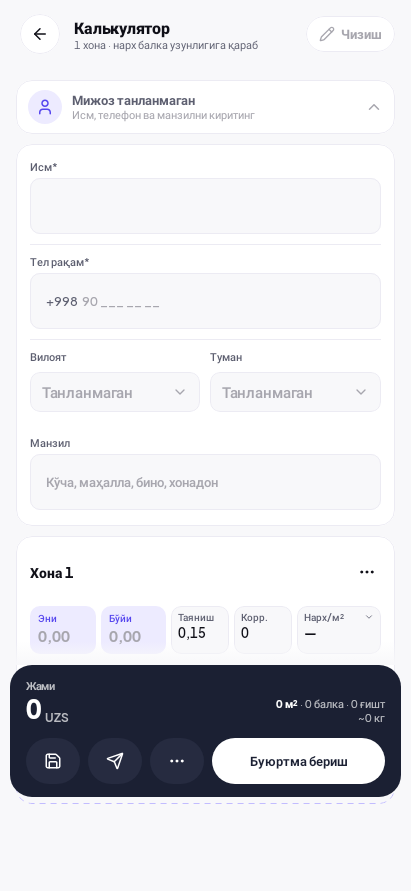
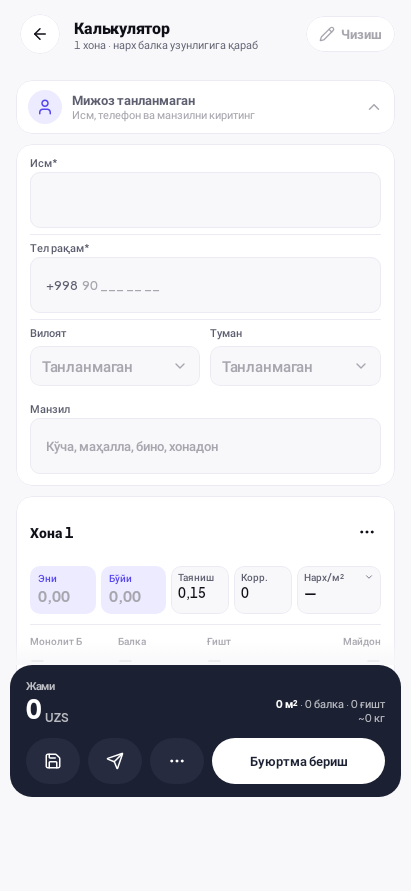
Feat(calculator) · client card collapsed by default; a compact client form
The card starts closed on every new quote and opens only from its chevron;
it still closes itself the moment a phone and a name are both on file, and
no longer re-opens on its own when one is blanked (owner ruling 2026-09-14).

FormField gains compact (6 dp above and below, 2 dp under the label; the
slot keeps its 48 dp, so stacked targets stay 12 dp apart), used only by
the client form — labels stay above the fields per the usability research
the owner asked for; the other 46 call sites do not move.

diff --git a/android/feature/calculator/src/test/kotlin/uz/etalon/crm/feature/calculator/ClientRowStateTest.kt b/android/feature/calculator/src/test/kotlin/uz/etalon/crm/feature/calculator/ClientRowStateTest.kt
@@ -154,9 +154,14 @@ class ClientRowStateTest {
 
     // ── the client form opening and closing: an edge, not a level ───────────────
 
-    @Test fun `a blank quote opens on the form, and a complete client closes it`() = runTest {
+    /** Collapsed by default (owner ruling 2026-09-14): a blank quote shows the one-line row, the
+     *  chevron opens the form, and a complete client closes it again. */
+    @Test fun `a blank quote starts on the closed row, the chevron opens it, a complete client closes it`() = runTest {
         val v = vm { emptyPage() }
-        assertTrue(v.state.value.clientFormOpen, "there is nothing to show on one line yet")
+        assertFalse(v.state.value.clientFormOpen, "collapsed until the operator asks for it")
+
+        v.toggleClientForm()
+        assertTrue(v.state.value.clientFormOpen)
 
         v.setClientName("Навоий Build")
         v.setClientPhoneDigits("901112233")
@@ -165,9 +170,9 @@ class ClientRowStateTest {
         assertFalse(v.state.value.clientFormOpen, "a phone and a name fit on the one-line row")
     }
 
-    /** The other half of the same rule: a quote whose phone or name has been emptied has nothing
-     *  to show on one line, so the form comes back. */
-    @Test fun `blanking the name reopens the form`() = runTest {
+    /** No falling edge: blanking the name after the form closed leaves the row closed — the
+     *  operator opens it by hand when they mean to correct it. */
+    @Test fun `blanking the name does not reopen the form by itself`() = runTest {
         val v = vm { hitPage() }
         v.setClientPhoneDigits("901112233")
         advanceUntilIdle()
@@ -175,7 +180,7 @@ class ClientRowStateTest {
 
         v.setClientName("")
 
-        assertTrue(v.state.value.clientFormOpen)
+        assertFalse(v.state.value.clientFormOpen)
     }
 
     @Test fun `the form closes once a phone and a name are both present — phone first`() = runTest {
@@ -188,6 +193,7 @@ class ClientRowStateTest {
 
     @Test fun `the form closes once a phone and a name are both present — name first`() = runTest {
         val v = vm { emptyPage() }
+        v.toggleClientForm()
         v.setClientName("Навоий Build")
         assertTrue(v.state.value.clientFormOpen, "no phone yet")
         v.setClientPhoneDigits("901112233")
@@ -195,13 +201,15 @@ class ClientRowStateTest {
         assertFalse(v.state.value.clientFormOpen, "a miss still leaves the typed name in place")
     }
 
-    @Test fun `neither a phone alone nor a name alone closes the form`() = runTest {
+    @Test fun `neither a phone alone nor a name alone closes an opened form`() = runTest {
         val phoneOnly = vm { emptyPage() }
+        phoneOnly.toggleClientForm()
         phoneOnly.setClientPhoneDigits("901112233")
         advanceUntilIdle()
         assertTrue(phoneOnly.state.value.clientFormOpen)
 
         val nameOnly = vm { emptyPage() }
+        nameOnly.toggleClientForm()
         nameOnly.setClientName("Навоий Build")
         assertTrue(nameOnly.state.value.clientFormOpen)
     }

diff --git a/android/feature/calculator/src/main/kotlin/uz/etalon/crm/feature/calculator/CalculatorViewModel.kt b/android/feature/calculator/src/main/kotlin/uz/etalon/crm/feature/calculator/CalculatorViewModel.kt
@@ -583,7 +583,7 @@ open class CalculatorViewModel(
                 orderTotals = computeOrderTotals(emptyList(), 0.0, 0.0, 0.0, 0.0),
                 schedule = emptyList(), error = null,
                 clientPhoneDigits = "", clientName = "", clientAddress = ParsedAddress("", "", ""),
-                matchedClientId = null, clientLookupError = null, clientFormOpen = true,
+                matchedClientId = null, clientLookupError = null, clientFormOpen = false,
                 projectId = null, saveMessage = null, toast = null, saving = false,
                 // Same reasoning as `saving`: a stale placement's completion discards itself, so
                 // nothing else would ever put the spinner down.
@@ -956,7 +956,7 @@ open class CalculatorViewModel(
                     // the «5,2» that was typed before the process died.
                     drafts = rows.associate { it.id to draftOf(it) },
                     clientPhoneDigits = digits, clientName = draft.clientName, clientAddress = address,
-                    clientFormOpen = !(digits.length == CLIENT_PHONE_DIGITS && draft.clientName.isNotBlank()),
+                    clientFormOpen = false,
                     discountMode = if (draft.discountAmount > 0.0) DiscountMode.AMOUNT else DiscountMode.PERCENT,
                     discountPercent = draft.discountPercent, discountAmount = draft.discountAmount,
                     deliveryCost = draft.deliveryCost, otherCost = draft.otherCost,
@@ -1040,8 +1040,8 @@ open class CalculatorViewModel(
      * name, the address) while the phone stays complete never re-crosses the edge, so the form
      * cannot snap shut again under the operator's fingers.
      *
-     * The falling edge is the same rule read the other way: a quote whose phone or name has been
-     * blanked has nothing to show on one line, so the form comes back open.
+     * There is no falling edge: blanking a phone or a name leaves the row closed — the operator
+     * opens it with the chevron when they mean to (owner ruling 2026-09-14: collapsed by default).
      */
     private fun updateClientState(transform: (CalculatorUiState) -> CalculatorUiState) {
         _state.update { s ->
@@ -1049,7 +1049,6 @@ open class CalculatorViewModel(
             val next = transform(s)
             when {
                 !wasReady && clientReady(next) -> next.copy(clientFormOpen = false)
-                wasReady && !clientReady(next) -> next.copy(clientFormOpen = true)
                 else -> next
             }
         }

diff --git a/android/feature/calculator/src/main/kotlin/uz/etalon/crm/feature/calculator/ClientRow.kt b/android/feature/calculator/src/main/kotlin/uz/etalon/crm/feature/calculator/ClientRow.kt
@@ -179,14 +179,14 @@ fun ClientForm(state: CalculatorUiState, vm: CalculatorViewModel, modifier: Modi
     Column(modifier.fillMaxWidth(), verticalArrangement = Arrangement.spacedBy(FORM_GAP)) {
         state.clientLookupError?.let { ErrorBanner(it, onRetry = vm::retryClientLookup) }
         FormCard {
-            FormField(stringResource(R.string.calc_client_name_req)) {
+            FormField(stringResource(R.string.calc_client_name_req), compact = true) {
                 EtalonTextField(
                     value = state.clientName,
                     onValueChange = vm::setClientName,
                     modifier = Modifier.fillMaxWidth(),
                 )
             }
-            FormField(stringResource(R.string.calc_client_phone_req)) {
+            FormField(stringResource(R.string.calc_client_phone_req), compact = true) {
                 EtalonTextField(
                     value = state.clientPhoneDigits,
                     // ASCII digits, not `Char.isDigit()`: Kotlin's is Unicode-aware and would let
@@ -207,17 +207,17 @@ fun ClientForm(state: CalculatorUiState, vm: CalculatorViewModel, modifier: Modi
             // weighted box around each — the field fills whatever it is given.
             Row(Modifier.fillMaxWidth(), horizontalArrangement = Arrangement.spacedBy(FORM_GAP)) {
                 Box(Modifier.weight(1f)) {
-                    RegionField(stringResource(R.string.calc_client_viloyat), state.clientAddress.viloyat) {
+                    RegionField(stringResource(R.string.calc_client_viloyat), state.clientAddress.viloyat, compact = true) {
                         picking = ClientRegionPick.VILOYAT
                     }
                 }
                 Box(Modifier.weight(1f)) {
-                    RegionField(stringResource(R.string.calc_client_tuman), state.clientAddress.tuman) {
+                    RegionField(stringResource(R.string.calc_client_tuman), state.clientAddress.tuman, compact = true) {
                         picking = ClientRegionPick.TUMAN
                     }
                 }
             }
-            FormField(stringResource(R.string.calc_client_address), divider = false) {
+            FormField(stringResource(R.string.calc_client_address), divider = false, compact = true) {
                 EtalonTextField(
                     value = state.clientAddress.street,
                     onValueChange = vm::setClientStreet,

diff --git a/android/core/designsystem/src/main/kotlin/uz/etalon/crm/core/designsystem/components/FormCard.kt b/android/core/designsystem/src/main/kotlin/uz/etalon/crm/core/designsystem/components/FormCard.kt
@@ -53,15 +53,19 @@ fun FormCard(modifier: Modifier = Modifier, content: @Composable ColumnScope.() 
  *   does a field standing on its own outside a [FormCard]. The divider cannot hide itself: the
  *   card's 6 dp of bottom padding leaves a trailing hairline floating 6 dp above the card's edge
  *   rather than covering it.
+ * @param compact halves the air (6 dp above and below, 2 dp under the label) for a form that
+ *   sits inside a taller flow and must not push the real work off the screen — the calculator's
+ *   client card. The slot itself keeps its 48 dp, so two stacked targets stay 12 dp apart.
  */
 @Composable
 fun FormField(
     label: String,
     modifier: Modifier = Modifier,
     divider: Boolean = true,
+    compact: Boolean = false,
     content: @Composable () -> Unit,
 ) = Column(modifier.fillMaxWidth()) {
-    Column(Modifier.fillMaxWidth().padding(vertical = 10.dp)) {
+    Column(Modifier.fillMaxWidth().padding(vertical = if (compact) 6.dp else 10.dp)) {
         Text(
             label,
             style = EtalonType.labelSm,
@@ -69,7 +73,7 @@ fun FormField(
             maxLines = 1,
             overflow = TextOverflow.Ellipsis,
         )
-        Spacer(Modifier.height(4.dp))
+        Spacer(Modifier.height(if (compact) 2.dp else 4.dp))
         content()
     }
     if (divider) HorizontalDivider(color = EtalonColors.surfaceBorder, thickness = EtalonSpace.hairline)

diff --git a/android/feature/calculator/src/test/kotlin/uz/etalon/crm/feature/calculator/CalculatorScreenshotTest.kt b/android/feature/calculator/src/test/kotlin/uz/etalon/crm/feature/calculator/CalculatorScreenshotTest.kt
@@ -453,11 +453,12 @@ class CalculatorScreenshotTest {
         )
     }
 
-    /** The same screen as it opens for a new quote: no client yet, so the form is expanded under
-     *  the row (R9), and one blank card is already there to type into (R8). */
+    /** A new quote with the client card opened by its chevron: no client yet, so the form shows
+     *  under the row (collapsed by default since 2026-09-14), and one blank card is already there
+     *  to type into (R8). */
     @Test @Config(qualifiers = "w411dp-h891dp")
     fun calculatorClientFormLight() {
-        screen(viewModel())
+        screen(viewModel().also { it.toggleClientForm() })
         rule.onNodeWithText("Мижоз танланмаган").assertExists()
         rule.onRoot().captureRoboImage("screenshots/calculator_client_form_light.png")
     }
@@ -499,9 +500,6 @@ class CalculatorScreenshotTest {
     fun nextWalksFromWidthToLengthToTheNextRoom() {
         val vm = viewModel()
         screen(vm)
-        // The client form's own three fields would sit before the rooms' in composition order.
-        vm.toggleClientForm()
-        rule.waitForIdle()
         fillLastRoom("Зал", "5,2", "7,1")
         addRoom()
         fillLastRoom("Хона 2", "4,0", "6,0")

diff --git a/android/feature/calculator/src/main/kotlin/uz/etalon/crm/feature/calculator/CalculatorUiState.kt b/android/feature/calculator/src/main/kotlin/uz/etalon/crm/feature/calculator/CalculatorUiState.kt
@@ -141,10 +141,10 @@ data class CalculatorUiState(
     /** A failed lookup, shown as a retryable banner. Never blocks typing — only a real answer
      *  (hit or miss) clears it. */
     val clientLookupError: String? = null,
-    /** Whether the full client FORM is showing rather than the one-line row. Open while the phone
-     *  or the name is still missing, closed the moment both are on file, and toggled by hand with
-     *  the chevron — see `CalculatorViewModel.updateClientState` and `toggleClientForm`. */
-    val clientFormOpen: Boolean = true,
+    /** Whether the full client FORM is showing rather than the one-line row. Closed until the
+     *  chevron opens it, and closed again by itself the moment a phone and a name are both on
+     *  file — see `CalculatorViewModel.updateClientState` and `toggleClientForm`. */
+    val clientFormOpen: Boolean = false,
 
     // ── draft persistence and «Лойиҳани сақлаш» ─────────────────────
     /** Null until the first successful save; from then on a second save updates this project

diff --git a/android/core/designsystem/src/main/kotlin/uz/etalon/crm/core/designsystem/components/RegionPicker.kt b/android/core/designsystem/src/main/kotlin/uz/etalon/crm/core/designsystem/components/RegionPicker.kt
@@ -53,7 +53,8 @@ import uz.etalon.crm.core.designsystem.theme.EtalonType
  * Task 7 so the calculator's client bar can share the same picker.
  */
 @Composable
-fun RegionField(label: String, value: String, onOpen: () -> Unit) = FormField(label, divider = false) {
+fun RegionField(label: String, value: String, compact: Boolean = false, onOpen: () -> Unit) =
+    FormField(label, divider = false, compact = compact) {
     Row(
         Modifier.fillMaxWidth()
             .minimumInteractiveComponentSize()
